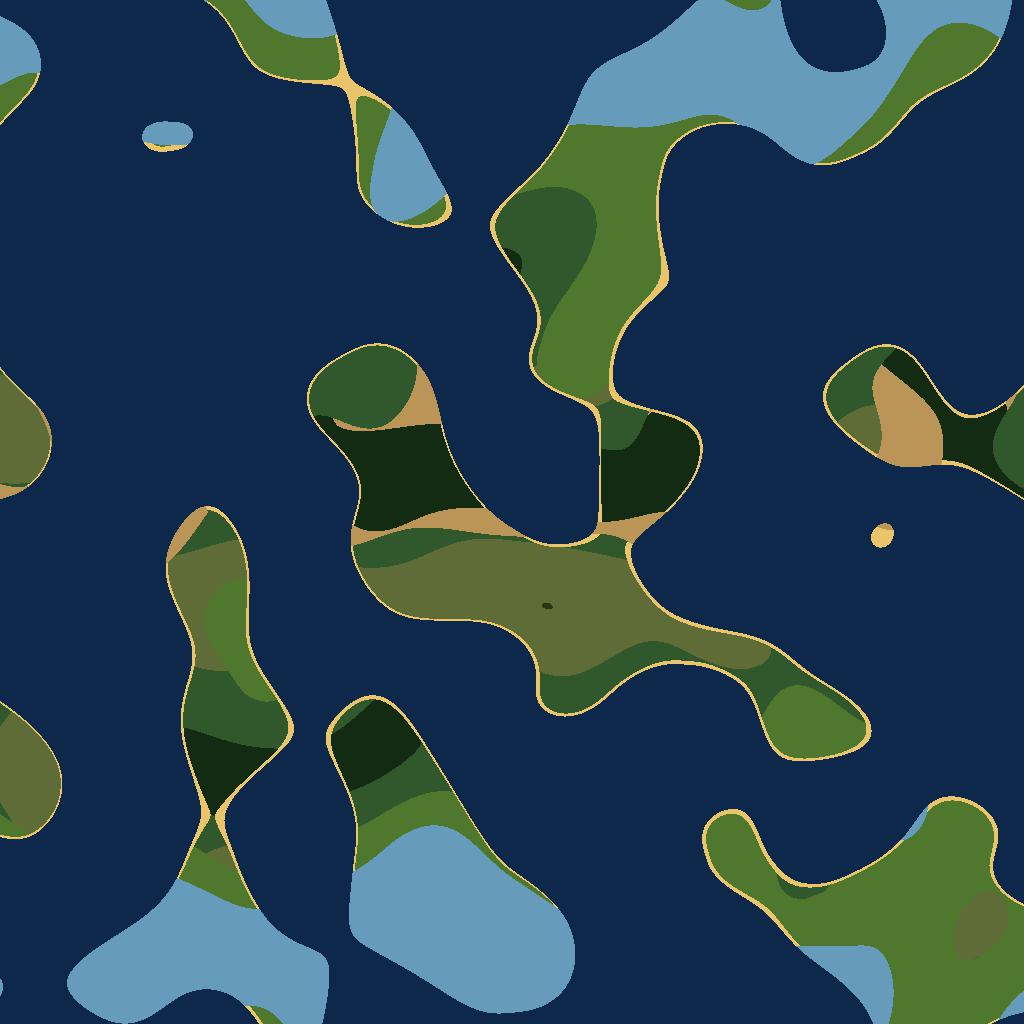
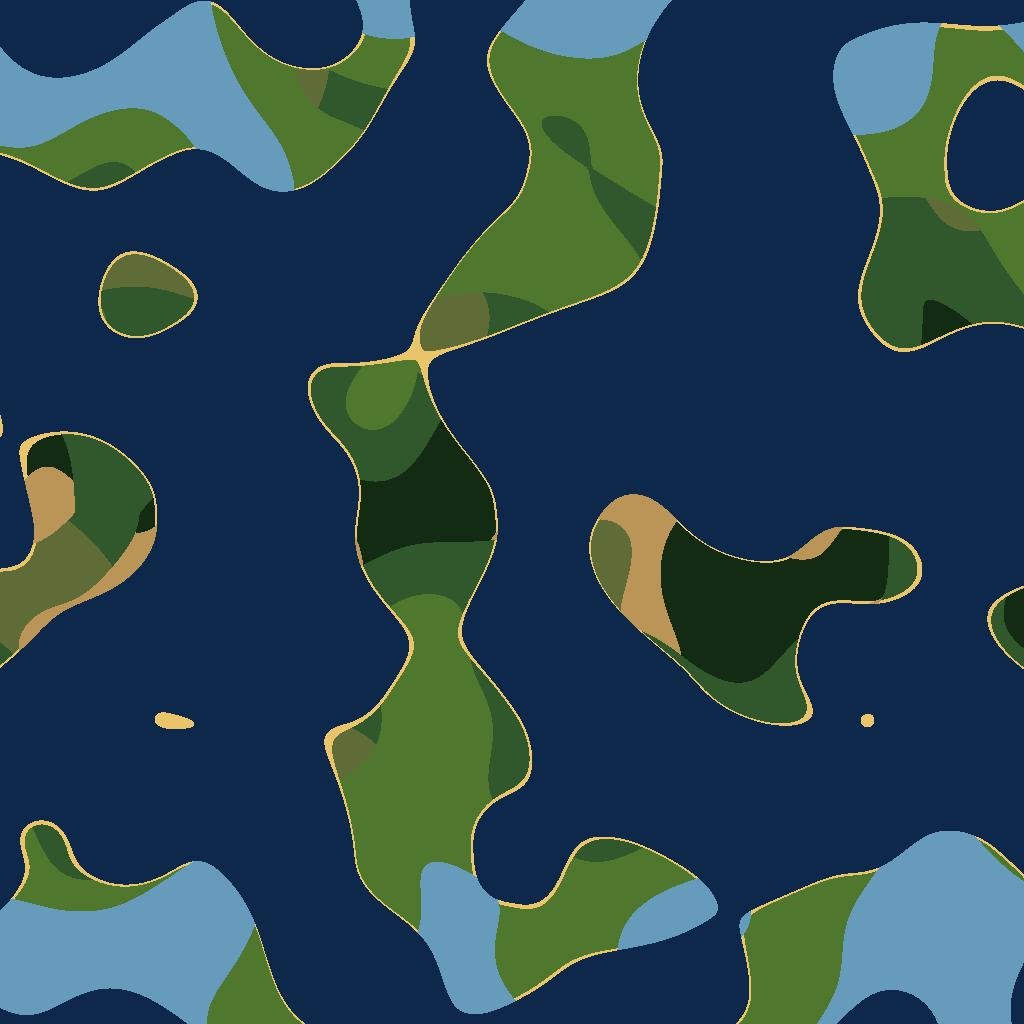
3d simplex attempt

diff --git a/main.py b/main.py
@@ -1,18 +1,82 @@
 from PIL import Image
 import numpy as np
-from random import random
-from perlin_noise import PerlinNoise
+from opensimplex import noise3, seed
 import pandas as pd
 import matplotlib.pyplot as plt
 import tqdm
+from sympy import *
+import math
+from datetime import datetime
 
-size_x, size_y = 512*2, 512*2
-height_noise = PerlinNoise(octaves=6)
-temperature_noise = PerlinNoise(octaves=6)
-precipitation_noise = PerlinNoise(octaves=6)
+size_x, size_y = 100, 100
+diameter = 175 # 162.974661726 but there might be errors in polar to cartesian conversion
+
+# def get_noise(seed):
+#     rng = np.random.default_rng(seed=seed)
+#     ix, iy, iz = rng.random(diameter), rng.random(diameter), rng.random(diameter)
+#     return noise3array(ix, iy, iz)
+
+print(datetime.now().strftime("%H:%M:%S"))
+# print('setting up height noise')
+# height_noise = get_noise(1)
+# print(datetime.now().strftime("%H:%M:%S"))
+# print('setting up temp noise')
+# temperature_noise = get_noise(2)
+# print(datetime.now().strftime("%H:%M:%S"))
+# print('setting up precip noise')
+# precipitation_noise = get_noise(3)
+
+def height_noise(x, y, z):
+    seed(0)
+    return noise3(x,y,z)
+
+def temperature_noise(x, y, z):
+    seed(1)
+    return noise3(x,y,z)
+
+def precipitation_noise(x, y, z):
+    seed(2)
+    return noise3(x,y,z)
 
 # normalizing range values
 update_range = lambda val, old_min, old_max, new_min, new_max: (((val - old_min) * (new_max - new_min)) / (old_max - old_min)) + new_min
+
+biome_color = {
+    'ocean': '134074',
+    'tundra': '669bbc',
+    'boreal forest': '4f772d',
+    'grassland': '90a955',
+    'temperate rainforest': '31572c',
+    'seasonal forest': '606c38',
+    'woodland': '283618',
+    'tropical rainforest': '132a13',
+    'savanna': 'bb9457',
+    'beach': 'e9c46a'
+}
+
+def asCartesian(rthetaphi):
+    # convert from pixel height to polar coordinate
+    theta   = update_range(rthetaphi[1], 0, size_x, 0, math.pi*2)
+    phi     = update_range(rthetaphi[2], 0, size_y, 0, math.pi)
+
+    #takes list rthetaphi (single coord)
+    r       = rthetaphi[0]
+    theta   = theta * pi/180 # to radian
+    phi     = phi * pi/180
+    x = r * sin( theta ) * cos( phi )
+    y = r * sin( theta ) * sin( phi )
+    z = r * cos( theta )
+    return [x,y,z]
+
+# def asSpherical(xyz):
+#     #takes list xyz (single coord)
+#     x       = xyz[0]
+#     y       = xyz[1]
+#     z       = xyz[2]
+#     r       =  sqrt(x*x + y*y + z*z)
+#     theta   =  acos(z/r)*180/ pi #to degrees
+#     phi     =  atan2(y,x)*180/ pi
+#     return [r,theta,phi]
 
 # get closeness to equator
 def equator_temp(x: int) -> float:
@@ -63,19 +127,6 @@ def get_biome(is_land: bool, temperature: float, precipitation: float) -> str:
     
     return 'desert'
 
-biome_color = {
-    'ocean': '134074',
-    'tundra': '669bbc',
-    'boreal forest': '4f772d',
-    'grassland': '90a955',
-    'temperate rainforest': '31572c',
-    'seasonal forest': '606c38',
-    'woodland': '283618',
-    'tropical rainforest': '132a13',
-    'savanna': 'bb9457',
-    'beach': 'e9c46a'
-}
-
 def init_df() -> pd.DataFrame:
     df = pd.DataFrame(
         columns = [
@@ -95,13 +146,23 @@ def init_df() -> pd.DataFrame:
     df['x'] = pd.Series([i for i in range(size_x) for _ in range(size_y)])
     df['y'] = pd.Series([i for _ in range(size_x) for i in range(size_y)])
 
+    print('adding 3D cartesian coordinates')
+    df['3D'] = df.apply(lambda row: asCartesian([1, row['x'], row['y']]), axis=1)
+    df['_x'] = df.apply(lambda row: row['3D'][0], axis=1)
+    df['_y'] = df.apply(lambda row: row['3D'][1], axis=1)
+    df['_z'] = df.apply(lambda row: row['3D'][2], axis=1)
+    df.to_pickle('tmp.pickle')
+
     # add noise
     print('adding height noise')
-    df['height'] = df.apply(lambda row: height_noise([row['x']/size_x, row['y']/size_y]), axis=1)
+    df['height'] = df.apply(lambda row: height_noise(row['_x'], row['_y'], row['_z']), axis=1)
+    df.to_pickle('tmp2.pickle')
     print('adding precipitation noise')
-    df['precipitation'] = df.apply(lambda row: temperature_noise([row['x']/size_x, row['y']/size_y]), axis=1)
+    df['precipitation'] = df.apply(lambda row: temperature_noise(row['_x'], row['_y'], row['_z']), axis=1)
+    df.to_pickle('tmp2.pickle')
     print('adding temperature noise')
-    df['temperature'] = df.apply(lambda row: precipitation_noise([row['x']/size_x, row['y']/size_y]), axis=1)
+    df['temperature'] = df.apply(lambda row: precipitation_noise(row['_x'], row['_y'], row['_z']), axis=1)
+    df.to_pickle('tmp2.pickle')
 
     print('normalizing ranges')
     df['height'] = df.apply(lambda row: update_range(row['height'], -0.7, 0.7, -11000, 9000), axis=1)
@@ -150,3 +211,5 @@ for _, row in tqdm.tqdm(df[df['is_land']].iterrows()):
 np_data = np.array(image_data)
 im = Image.fromarray(np_data.astype(np.uint8))
 im.save("./render/client/images/grid512.jpg")
+
+print(datetime.now().strftime("%H:%M:%S"))
